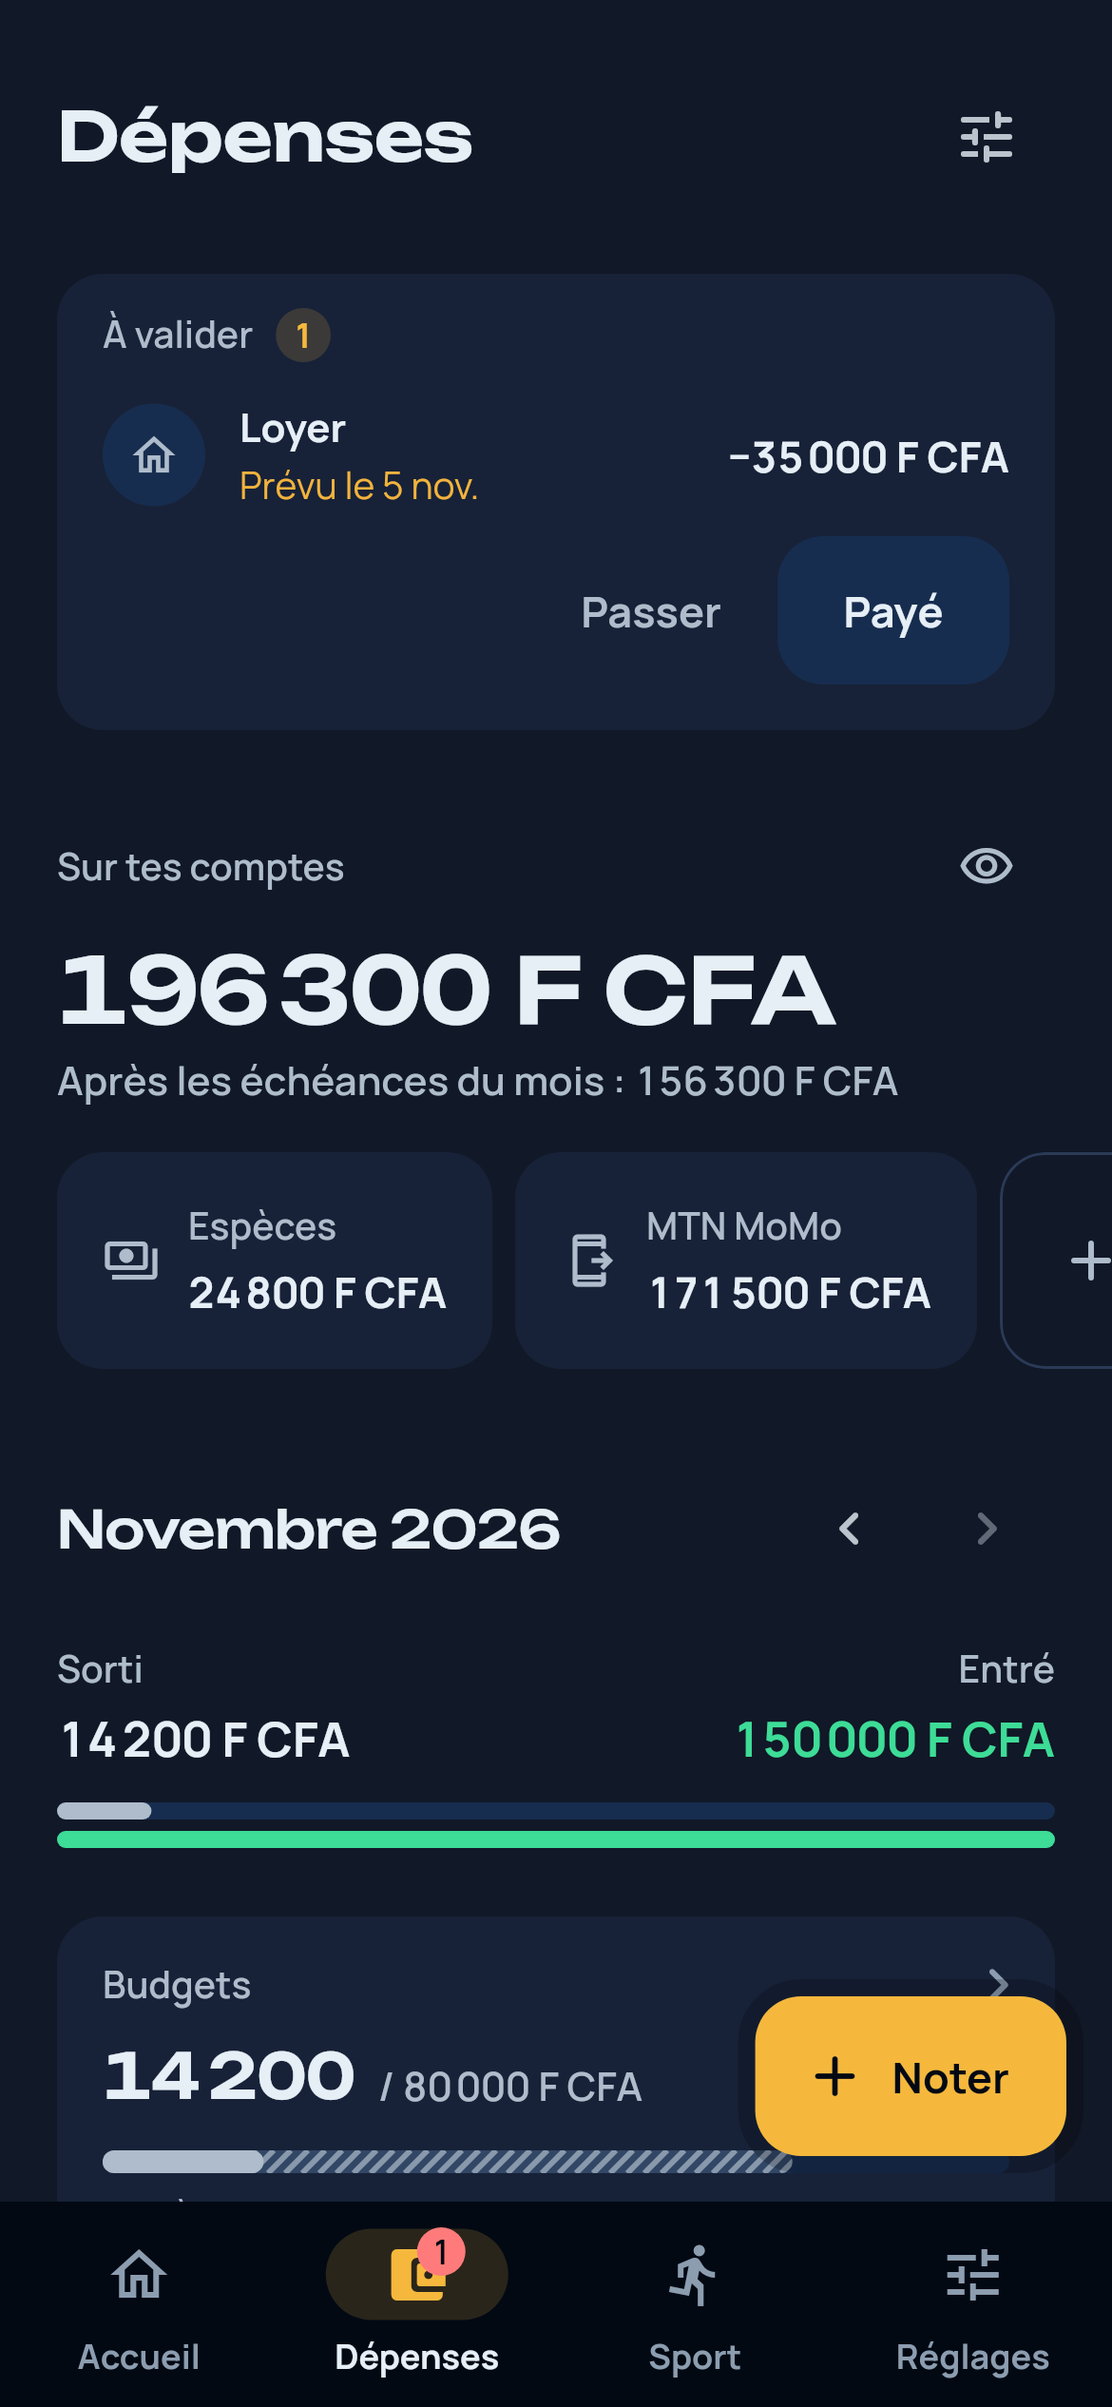
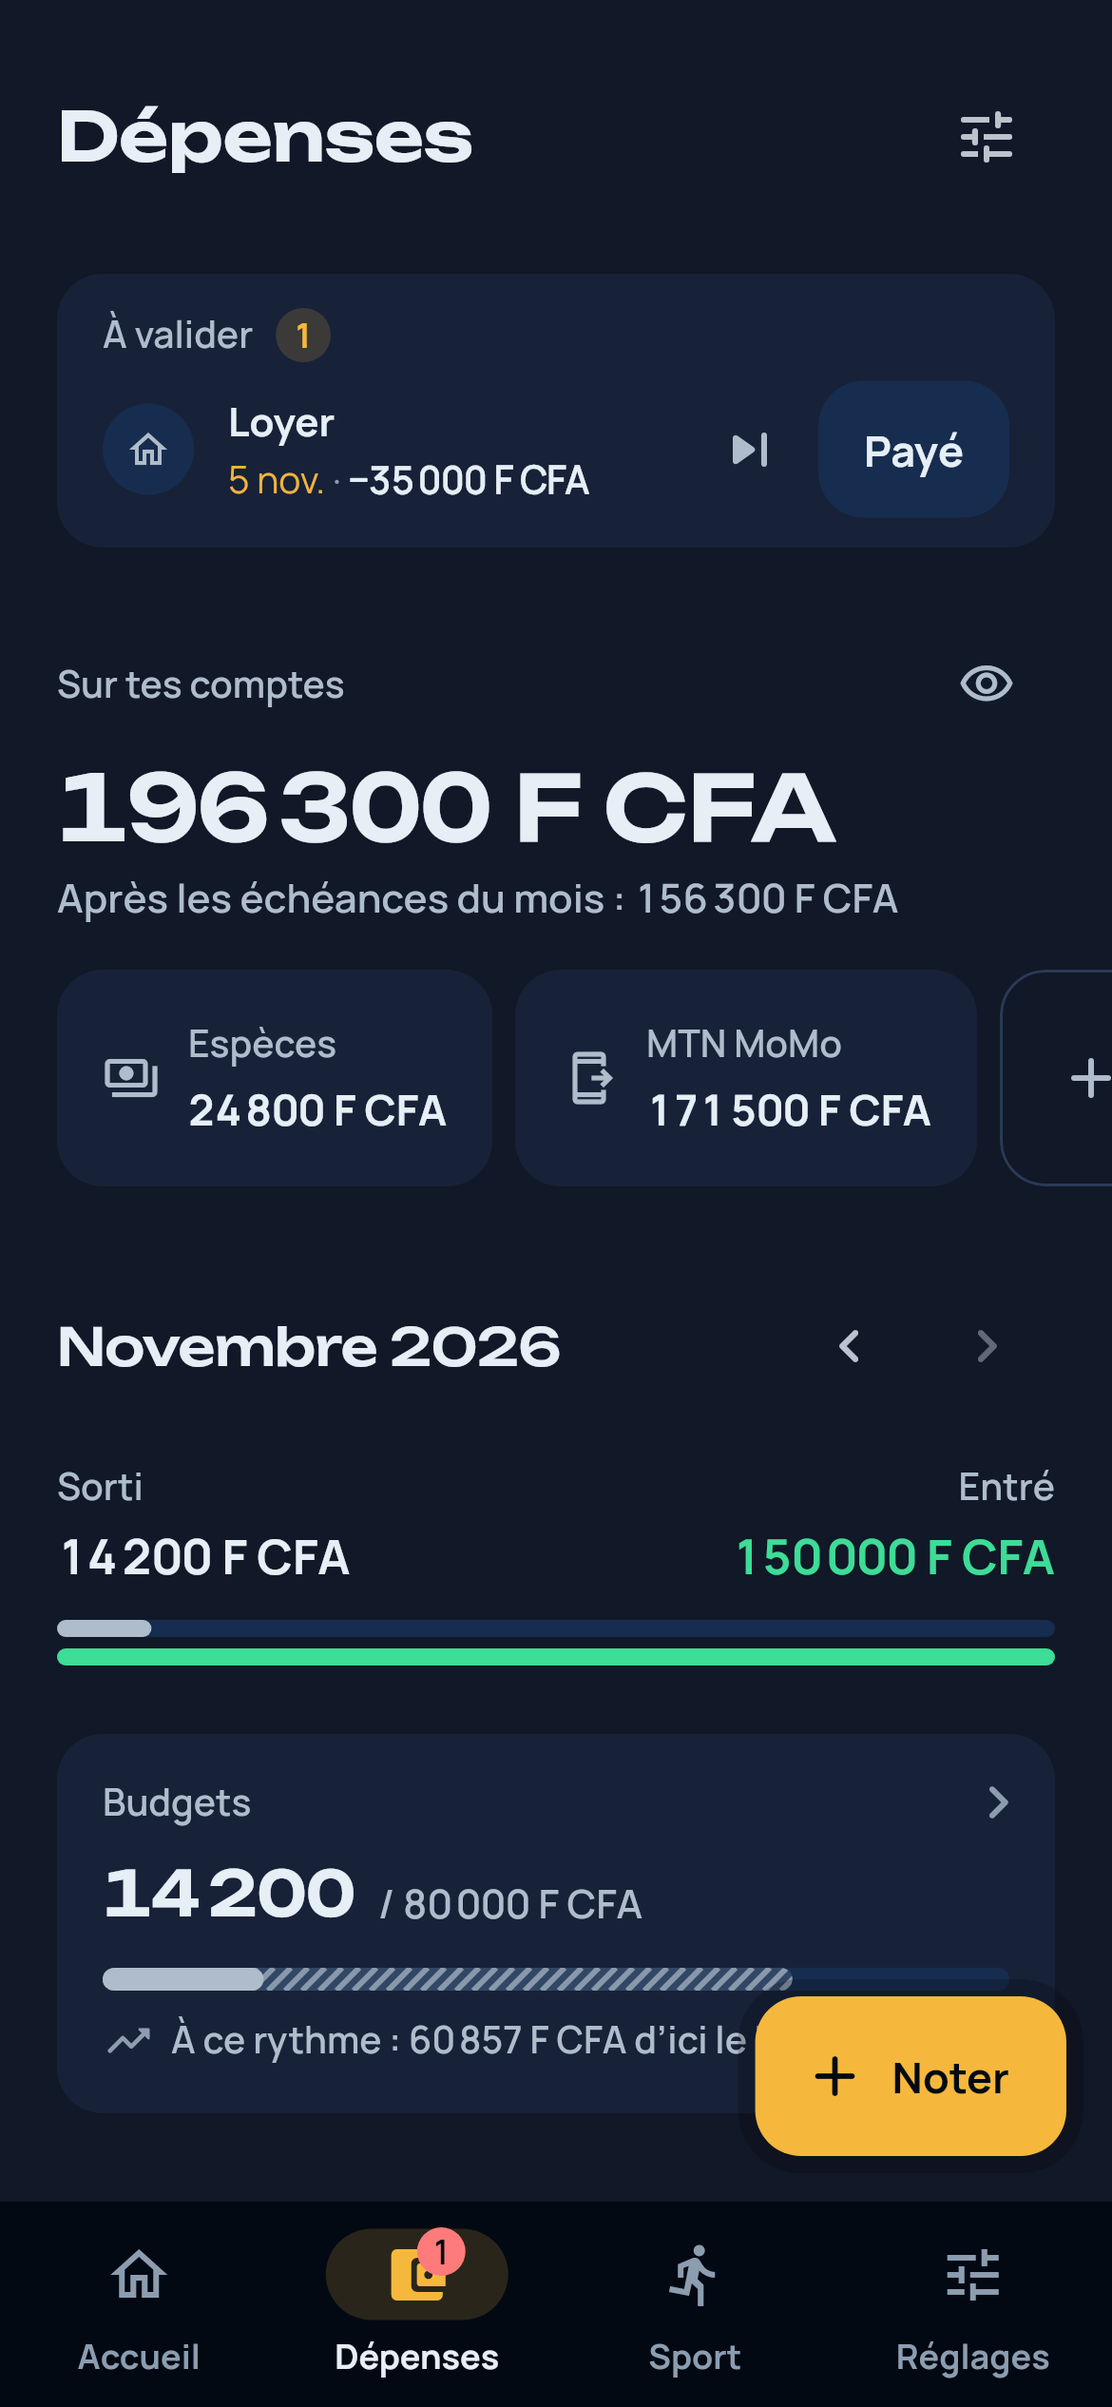
fix(recurrentes): pas d'échéance d'avant la création, et une ligne par échéance
Une récurrence créée le 11 avec un début le 5 réclamait l'échéance du
5, sans doute déjà réglée : quatre récurrences posées d'un coup
remplissaient l'écran. Les échéances comptent désormais à partir du
jour de création, y compris pour les récurrences déjà créées (le
dépôt prend le plus tardif de dueFrom et du jour de création, sans
migration).

Le bloc « À valider » tient une échéance par ligne : nom, date et
montant, « Passer » en icône et « Payé » à droite. « Voir l'autre »
au singulier.

diff --git a/lib/features/expenses/ui/recurrings_screen.dart b/lib/features/expenses/ui/recurrings_screen.dart
@@ -555,8 +555,7 @@ class _DuesBlockState extends ConsumerState<DuesBlock> {
                   ],
                 ),
               ),
-              for (final (i, due) in shown.indexed) ...[
-                if (i > 0) const Divider(height: 1, color: PalierColors.line),
+              for (final due in shown) ...[
                 _DueRow(
                   due: due,
                   today: today,
@@ -583,6 +582,8 @@ class _DuesBlockState extends ConsumerState<DuesBlock> {
   }
 }
 
+/// Une échéance sur une seule ligne : de quoi la reconnaître (nom, date,
+/// montant) et la traiter sans ouvrir d'écran.
 class _DueRow extends StatelessWidget {
   const _DueRow({
     required this.due,
@@ -607,72 +608,79 @@ class _DueRow extends StatelessWidget {
     final r = due.recurring;
     final title = r.title(l10n.expensesTransfer);
     final date = DateFormat.MMMd('fr').format(due.day);
+    final when = due.day == today ? l10n.expensesToday : date;
     final late = due.day.isBefore(today);
+    final small = text.bodySmall!;
 
     return Padding(
-      padding: const EdgeInsets.symmetric(vertical: PalierSpace.sm),
-      child: Column(
-        crossAxisAlignment: CrossAxisAlignment.stretch,
+      padding: const EdgeInsets.only(top: PalierSpace.xs),
+      child: Row(
         children: [
-          InkWell(
-            onTap: onOpen,
-            borderRadius: BorderRadius.circular(PalierRadius.sm),
-            child: Padding(
-              padding: const EdgeInsets.symmetric(vertical: PalierSpace.xs),
-              child: Row(
-                children: [
-                  OperationBadge(kind: r.kind, icon: r.categoryIcon, size: 36),
-                  const SizedBox(width: PalierSpace.sm + 4),
-                  Expanded(
-                    child: Column(
-                      crossAxisAlignment: CrossAxisAlignment.start,
-                      children: [
-                        Text(title, style: text.titleSmall, maxLines: 1, overflow: TextOverflow.ellipsis),
-                        const SizedBox(height: 2),
-                        Text(
-                          due.day == today ? l10n.duesToday : l10n.duesOn(date),
-                          style: text.bodySmall?.copyWith(color: late ? PalierColors.warning : null),
-                        ),
-                      ],
+          Expanded(
+            child: InkWell(
+              onTap: onOpen,
+              borderRadius: BorderRadius.circular(PalierRadius.sm),
+              child: Padding(
+                padding: const EdgeInsets.symmetric(vertical: PalierSpace.xs + 2),
+                child: Row(
+                  children: [
+                    OperationBadge(kind: r.kind, icon: r.categoryIcon, size: 32),
+                    const SizedBox(width: PalierSpace.sm + 4),
+                    Expanded(
+                      child: Column(
+                        crossAxisAlignment: CrossAxisAlignment.start,
+                        children: [
+                          Text(title, style: text.titleSmall, maxLines: 1, overflow: TextOverflow.ellipsis),
+                          const SizedBox(height: 2),
+                          Row(
+                            children: [
+                              Text(when, style: small.copyWith(color: late ? PalierColors.warning : null)),
+                              Text(' · ', style: small),
+                              Flexible(
+                                child: LucidPrivateText(
+                                  signedMoney(r.kind, r.amount, currency),
+                                  mask: maskedMoney(currency),
+                                  style: small.copyWith(
+                                    fontWeight: FontWeight.w700,
+                                    color: _amountColor(r.kind),
+                                    fontFeatures: _figures,
+                                  ),
+                                ),
+                              ),
+                            ],
+                          ),
+                        ],
+                      ),
                     ),
-                  ),
-                  const SizedBox(width: PalierSpace.sm),
-                  LucidPrivateText(
-                    signedMoney(r.kind, r.amount, currency),
-                    mask: maskedMoney(currency),
-                    style: manrope(
-                      size: 15,
-                      weight: FontWeight.w700,
-                      color: _amountColor(r.kind),
-                    ).copyWith(fontFeatures: _figures),
-                  ),
-                ],
+                  ],
+                ),
               ),
             ),
           ),
-          const SizedBox(height: PalierSpace.xs),
-          Row(
-            mainAxisAlignment: MainAxisAlignment.end,
-            children: [
-              Semantics(
-                button: true,
-                label: l10n.dueSkipFor(title, date),
-                excludeSemantics: true,
-                // Neutre : l'accent du profil (ambre, corail…) se confondrait avec un retard.
-                child: TextButton(
-                  style: TextButton.styleFrom(foregroundColor: PalierColors.textMid),
-                  onPressed: onSkip,
-                  child: Text(l10n.dueSkip),
-                ),
+          Semantics(
+            button: true,
+            label: l10n.dueSkipFor(title, date),
+            excludeSemantics: true,
+            child: IconButton(
+              // Neutre : l'accent du profil (ambre, corail…) se confondrait avec un retard.
+              color: PalierColors.textMid,
+              tooltip: l10n.dueSkip,
+              icon: const Icon(Icons.skip_next_rounded),
+              onPressed: onSkip,
+            ),
+          ),
+          Semantics(
+            button: true,
+            label: l10n.duePayFor(r.kind.name, title, date),
+            excludeSemantics: true,
+            child: FilledButton.tonal(
+              style: FilledButton.styleFrom(
+                minimumSize: const Size(56, kPalierMinTarget),
+                padding: const EdgeInsets.symmetric(horizontal: PalierSpace.md),
               ),
-              const SizedBox(width: PalierSpace.sm),
-              Semantics(
-                button: true,
-                label: l10n.duePayFor(r.kind.name, title, date),
-                excludeSemantics: true,
-                child: FilledButton.tonal(onPressed: onPay, child: Text(l10n.duePay(r.kind.name))),
-              ),
-            ],
+              onPressed: onPay,
+              child: Text(l10n.duePay(r.kind.name)),
+            ),
           ),
         ],
       ),

diff --git a/test/features/expenses/expenses_repository_test.dart b/test/features/expenses/expenses_repository_test.dart
@@ -287,8 +287,38 @@ void main() {
 
     final monthly = LucidRecurrence(unit: LucidRecurrenceUnit.month, start: DateTime(2026, 1, 1));
 
+    /// Fait [action] comme si l'on était le [day], puis revient au 9 novembre.
+    Future<T> on<T>(DateTime day, Future<T> Function() action) async {
+      final today = now;
+      now = day.toUtc();
+      try {
+        return await action();
+      } finally {
+        now = today;
+      }
+    }
+
+    test('une récurrence créée après son début n’en réclame pas les échéances passées', () async {
+      await repo.createRecurring(
+        ama,
+        RecurringDraft(
+          kind: OperationKind.expense,
+          amount: 45000,
+          accountId: cash,
+          categoryId: rent,
+          rule: LucidRecurrence(unit: LucidRecurrenceUnit.month, start: DateTime(2026, 11, 5)),
+        ),
+      );
+      final recurring = (await repo.watchRecurrings(ama).first).single;
+      expect(duesUntil([recurring], now), isEmpty, reason: 'le 5 est passé avant sa création, le 9');
+      expect(recurring.nextFrom(DateTime(2026, 11, 9)), DateTime(2026, 12, 5));
+    });
+
     test('« Répéter » crée la récurrence, et l’opération règle sa première échéance', () async {
-      await repo.addOperation(ama, spend(45000, cash, rent, at: DateTime(2026, 10, 5, 9)), repeat: monthly);
+      await on(
+        DateTime(2026, 10, 5, 10),
+        () => repo.addOperation(ama, spend(45000, cash, rent, at: DateTime(2026, 10, 5, 9)), repeat: monthly),
+      );
 
       final recurring = (await repo.watchRecurrings(ama).first).single;
       expect(recurring.rule.start, DateTime(2026, 10, 5));
@@ -303,7 +333,10 @@ void main() {
     });
 
     test('régler une échéance la retire ; supprimer l’opération la fait revenir', () async {
-      await repo.addOperation(ama, spend(45000, cash, rent, at: DateTime(2026, 10, 5, 9)), repeat: monthly);
+      await on(
+        DateTime(2026, 10, 5, 10),
+        () => repo.addOperation(ama, spend(45000, cash, rent, at: DateTime(2026, 10, 5, 9)), repeat: monthly),
+      );
       var recurring = (await repo.watchRecurrings(ama).first).single;
       final due = duesUntil([recurring], now).single;
 
@@ -317,7 +350,10 @@ void main() {
     });
 
     test('passer une échéance, puis l’annuler, puis la repasser', () async {
-      await repo.addOperation(ama, spend(45000, cash, rent, at: DateTime(2026, 10, 5, 9)), repeat: monthly);
+      await on(
+        DateTime(2026, 10, 5, 10),
+        () => repo.addOperation(ama, spend(45000, cash, rent, at: DateTime(2026, 10, 5, 9)), repeat: monthly),
+      );
       Future<List<Due>> dues() async => duesUntil(await repo.watchRecurrings(ama).first, now);
       final due = (await dues()).single;
 
@@ -330,14 +366,17 @@ void main() {
     });
 
     test('changer la règle fait compter les échéances à partir d’aujourd’hui', () async {
-      final id = await repo.createRecurring(
-        ama,
-        RecurringDraft(
-          kind: OperationKind.expense,
-          amount: 3000,
-          accountId: cash,
-          categoryId: rent,
-          rule: LucidRecurrence(unit: LucidRecurrenceUnit.week, start: DateTime(2026, 11, 2)),
+      final id = await on(
+        DateTime(2026, 11, 2, 8),
+        () => repo.createRecurring(
+          ama,
+          RecurringDraft(
+            kind: OperationKind.expense,
+            amount: 3000,
+            accountId: cash,
+            categoryId: rent,
+            rule: LucidRecurrence(unit: LucidRecurrenceUnit.week, start: DateTime(2026, 11, 2)),
+          ),
         ),
       );
       final before = (await repo.watchRecurrings(ama).first).single;

diff --git a/test/widget/recurrings_flow_test.dart b/test/widget/recurrings_flow_test.dart
@@ -39,7 +39,8 @@ Future<TestApp> _openExpenses(WidgetTester tester) async {
 /// Un transport à 2 000 chaque lundi depuis le 2 : les échéances du 2 et du 9 attendent.
 Future<void> _seedWeekly(WidgetTester tester, TestApp app) async {
   await tester.runAsync(() async {
-    final repo = ExpensesRepository(app.db);
+    // Créée le 1er : les échéances du 2 et du 9 lui reviennent.
+    final repo = ExpensesRepository(app.db, clock: () => DateTime.utc(2026, 11, 1, 8));
     final profileId = (await app.profiles.watchAll().first).single.id;
     final account = (await repo.watchAccounts(profileId).first).first;
     final category = (await repo.watchCategories(profileId, kind: CategoryKind.expense).first).first;
@@ -92,14 +93,14 @@ void main() {
     await _seedWeekly(tester, app);
 
     expect(find.text('À valider'), findsOneWidget);
-    expect(find.text('Prévu le 2 nov.'), findsOneWidget);
-    expect(find.text('Prévu le 9 nov.'), findsOneWidget);
+    expect(find.text('2 nov.'), findsOneWidget);
+    expect(find.text('9 nov.'), findsOneWidget);
     expect(find.textContaining('Après les échéances du mois'), findsOneWidget);
 
     await tester.tap(find.bySemanticsLabel('Payé : Zém, 2 nov.'));
     await app.settle(tester);
     expect(find.text('Échéance réglée.'), findsOneWidget);
-    expect(find.text('Prévu le 2 nov.'), findsNothing);
+    expect(find.text('2 nov.'), findsNothing);
 
     await tester.tap(find.bySemanticsLabel('Passer : Zém, 9 nov.'));
     await app.settle(tester);
@@ -108,14 +109,14 @@ void main() {
 
     await tester.tap(find.text('Annuler'));
     await app.settle(tester);
-    expect(find.text('Prévu le 9 nov.'), findsOneWidget);
+    expect(find.text('9 nov.'), findsOneWidget);
   });
 
   testWidgets('toucher une échéance ouvre la saisie, montant modifiable', (tester) async {
     final app = await _openExpenses(tester);
     await _seedWeekly(tester, app);
 
-    await tester.tap(find.text('Prévu le 2 nov.'));
+    await tester.tap(find.text('2 nov.'));
     await app.settle(tester);
     expect(find.text('Régler l’échéance'), findsOneWidget);
     expect(find.text(AmountEntry.fromMinor(2000, _xof).display), findsOneWidget);
@@ -123,7 +124,7 @@ void main() {
     await _pad(tester, ['Effacer', '5']);
     await tester.tap(find.text('Enregistrer la dépense'));
     await app.settle(tester);
-    expect(find.text('Prévu le 2 nov.'), findsNothing);
-    expect(find.text('Prévu le 9 nov.'), findsOneWidget);
+    expect(find.text('2 nov.'), findsNothing);
+    expect(find.text('9 nov.'), findsOneWidget);
   });
 }

diff --git a/lib/features/expenses/data/expenses_repository.dart b/lib/features/expenses/data/expenses_repository.dart
@@ -395,6 +395,9 @@ class ExpensesRepository {
     return all.where((r) => r.id == id).firstOrNull;
   }
 
+  /// Crée une récurrence. Ses échéances comptent à partir du jour de création :
+  /// une récurrence posée le 11 avec un début le 5 ne réclame pas l'échéance du
+  /// 5, sans doute déjà réglée, mais attend la suivante.
   Future<String> createRecurring(String profileId, RecurringDraft draft) async {
     _check(draft.asOperation);
     final now = _clock();
@@ -418,7 +421,7 @@ class ExpensesRepository {
             every: Value(rule.interval),
             startsOn: dayKey(rule.start),
             endsOn: Value(rule.until == null ? null : dayKey(rule.until!)),
-            dueFrom: dayKey(rule.start),
+            dueFrom: dayKey(_later(rule.start, localDay(now))),
           ),
         );
     return id;
@@ -554,7 +557,9 @@ class ExpensesRepository {
               start: parseDayKey(recurrence.startsOn),
               until: recurrence.endsOn == null ? null : parseDayKey(recurrence.endsOn!),
             ),
-            dueFrom: parseDayKey(recurrence.dueFrom),
+            // Même règle pour les lignes créées avant elle (le 11/11) : jamais
+            // d'échéance antérieure au jour de création.
+            dueFrom: _later(parseDayKey(recurrence.dueFrom), localDay(recurrence.createdAt)),
             settled: Set.unmodifiable(settled[recurrence.id] ?? const <DateTime>{}),
           );
         }(),
@@ -562,6 +567,8 @@ class ExpensesRepository {
   }
 
   // ------------------------------------------------------------------ outils
+
+  static DateTime _later(DateTime a, DateTime b) => a.isAfter(b) ? a : b;
 
   static void _check(OperationDraft draft) {
     final problem = draft.problem;

diff --git a/test/captures/captures_test.dart b/test/captures/captures_test.dart
@@ -4,8 +4,8 @@ library;
 import 'package:flutter/material.dart';
 import 'package:flutter_test/flutter_test.dart';
 import 'package:lucid_core_flutter/lucid_core_flutter.dart' show LucidRecurrence, LucidRecurrenceUnit;
-import 'package:palier/app/providers.dart';
 import 'package:palier/app/theme/palier_accent.dart';
+import 'package:palier/features/expenses/data/expenses_repository.dart';
 import 'package:palier/features/expenses/domain/expense_kinds.dart';
 import 'package:palier/features/expenses/domain/expenses.dart';
 import 'package:palier/features/expenses/domain/recurring.dart';
@@ -159,7 +159,8 @@ void main() {
 /// Un mois fictif de Kofi : deux comptes, un salaire, quelques dépenses, un
 /// virement, trois plafonds, et ce qui revient (salaire, loyer, abonnement).
 Future<void> _kofiMonth(TestApp app) async {
-  final repo = app.container.read(expensesRepositoryProvider);
+  // Tout est créé le 1er du mois : la date réelle du jour ne change rien aux captures.
+  final repo = ExpensesRepository(app.db, clock: () => DateTime.utc(2026, 11, 1, 8));
   final kofi = (await app.profiles.watchAll().first).firstWhere((p) => p.name == 'Kofi').id;
   await repo.ensureStarterKit(kofi);
   final cash = (await repo.watchAccounts(kofi).first).single;

diff --git a/test/features/expenses/expenses_backup_section_test.dart b/test/features/expenses/expenses_backup_section_test.dart
@@ -92,7 +92,7 @@ void main() {
   test('les récurrences et leurs échéances passées suivent le profil', () async {
     final phone = openTestDatabase();
     addTearDown(phone.close);
-    final now = DateTime.utc(2026, 11, 11, 9);
+    var now = DateTime.utc(2026, 9, 5, 11);
     final expenses = ExpensesRepository(phone, clock: () => now);
     final ama = await ProfilesRepository(phone).create(const ProfileDraft(name: 'Ama'));
     await expenses.ensureStarterKit(ama.id);
@@ -109,6 +109,7 @@ void main() {
       ),
       repeat: LucidRecurrence(unit: LucidRecurrenceUnit.month, start: DateTime(2026, 9, 5)),
     );
+    now = DateTime.utc(2026, 11, 11, 9);
     final recurring = (await expenses.watchRecurrings(ama.id).first).single;
     await expenses.skipDue(ama.id, Due(recurring: recurring, day: DateTime(2026, 10, 5)));
 
